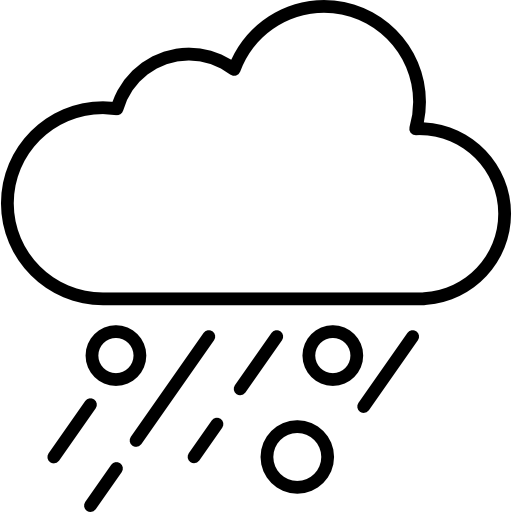
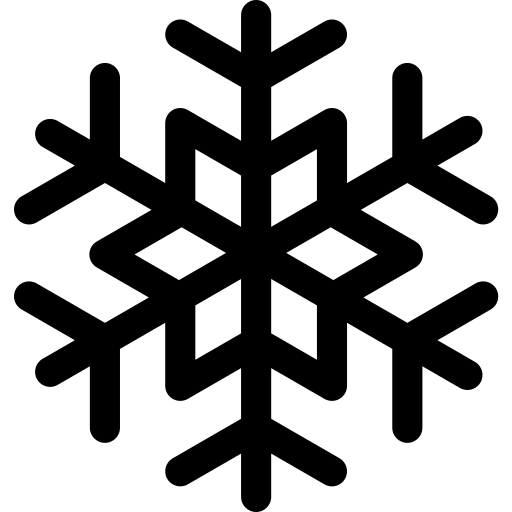
yey, we have second screen.

diff --git a/lib/src/server/weather_model.dart b/lib/src/server/weather_model.dart
@@ -1,7 +1,5 @@
 import 'package:flutter/material.dart';
-import 'package:weather/weather.dart';
 import 'package:weatherapp/src/tools/convert_temperature.dart';
-import 'package:flutter_weather_icons/flutter_weather_icons.dart';
 
 class WeatherModel {
   Map<String, dynamic>? _weather;
@@ -12,11 +10,9 @@ class WeatherModel {
 
   //getters
 
-  //=======
-
-  String get mainStatuts => _weather?['main'] ?? 'unknown';
+  String get mainStatus => _weather?['main'] ?? 'unknown';
   String get description => _weather?['description'] ?? 'unknown';
-  IconData get icon => getIconFromCode(_weather?['icon'] ?? '');
+  Image get icon => _getIconFromCode(_weather?['icon']  ?? '');
   int get temperature => KelvinToCelsium(_main?['temp']).round();
   int get feelsLikeTemperature => KelvinToCelsium(_main?['feels_like']).round();
   int get pressure => _main?['pressure'] ?? 0;
@@ -27,6 +23,7 @@ class WeatherModel {
 
   String get countryName => _countryName ?? 'unknown location';
   String get cityName => _cityName ?? '';
+
   //constructors
 
   WeatherModel() {
@@ -62,35 +59,50 @@ class WeatherModel {
       throw exception;
     }
   }
-  IconData getIconFromCode(String code){
-    IconData tempIcon;
 
-    if(code == '01d'){
-      tempIcon = WeatherIcons.wiDaySunny;
+  Image _getIconFromCode(String code){
+    String imagePath;
+
+    switch (code) {
+      case '01d':
+        imagePath = 'assets/weather_status/sunny.png';
+        break;
+      case '01n':
+        imagePath = 'assets/weather_status/moon.png';
+        break;
+      case '11d':
+        imagePath = 'assets/weather_status/thunderstorm.png';
+        break;
+      case '09d':
+      case '10d':
+        imagePath = 'assets/weather_status/rainy_day.png';
+        break;
+      case '13d':
+        imagePath = 'assets/weather_status/snow.png';
+        break;
+      case '50d':
+        imagePath = 'assets/weather_status/haze.png';
+        break;
+      case '02d':
+        imagePath = 'assets/weather_status/clear_sky.png';
+        break;
+      case '02n':
+        imagePath = 'assets/weather_status/cloudy_night.png';
+        break;
+      case '03d':
+      case '03n':
+      case '04d':
+      case '04n':
+        imagePath = 'assets/weather_status/cloud.png';
+        break;
+      default:
+        imagePath = 'assets/weather_status/sunny.png';
+        break;
     }
-    else {
-      tempIcon = WeatherIcons.wiDaySunny;
-    }
-    return tempIcon;
+
+    return Image.asset(
+      imagePath,
+      width: 75,
+    );
   }
-
-// WeatherModel.manually({temperature = 0, clouds = 0, windSpeed = 0,
-//   weatherDescription = '', icon = '', countryName = '', cityName = ''}){
-//   _temperature = temperature;
-//   _clouds = clouds;
-//   _windSpeed = windSpeed;
-//   _weatherDescription = weatherDescription;
-//   _icon = icon;
-//   _countryName = countryName;
-//   _cityName = cityName;
-// }
 }
-
-//TODO:
-/*
-Не удобно работать с классом, изза чего в виджетах получаются длиннае строки с выборкой данных
--нужно сделать пару основных приватных полей и геттерами из них изымать нужные данные
-
-
-
-*/

diff --git a/lib/src/main_screen/first_main_screen/first_main_screen.dart b/lib/src/main_screen/first_main_screen/first_main_screen.dart
@@ -29,37 +29,41 @@ class _FirstMainScreenState extends State<FirstMainScreen> {
 
   @override
   Widget build(BuildContext context) {
-    return Column(
-      mainAxisAlignment: MainAxisAlignment.center,
-      children: [
-        Container(
-          margin: const EdgeInsets.only(bottom: 40),
-          child: Text(
-            FirstSymbolToUpperCase(currentWeather.description),
-            style: mainSmallFontStyle,
+    return Container(
+      height: MediaQuery.of(context).size.height,
+      width: MediaQuery.of(context).size.width,
+      child: Column(
+        mainAxisAlignment: MainAxisAlignment.center,
+        children: [
+          Container(
+            margin: const EdgeInsets.only(bottom: 40),
+            child: Text(
+              FirstSymbolToUpperCase(currentWeather.description),
+              style: mainSmallFontStyle,
+            ),
           ),
-        ),
-        Container(
-            margin: const EdgeInsets.only(bottom: 80),
-            child: temperatureBlock(
-              temperature: currentWeather.temperature,
-              currentWeatherIcon: currentWeather.icon,
-            )),
-        Container(
-          margin: const EdgeInsets.only(bottom: 20),
-          child: additionalInfoBlock(
-            humidity: currentWeather.humidity,
-            pressure: currentWeather.pressure,
-            wind: currentWeather.windSpeed,
+          Container(
+              margin: const EdgeInsets.only(bottom: 80),
+              child: temperatureBlock(
+                temperature: currentWeather.temperature,
+                currentWeatherIcon: currentWeather.icon, //currentWeather.icon,
+              )),
+          Container(
+            margin: const EdgeInsets.only(bottom: 20),
+            child: additionalInfoBlock(
+              humidity: currentWeather.humidity,
+              pressure: currentWeather.pressure,
+              wind: currentWeather.windSpeed,
+            ),
           ),
-        ),
-        Container(
-          child: Text(
-            '${currentWeather.cityName}, ${currentWeather.countryName}',
-            style: mainSmallFontStyle,
+          Container(
+            child: Text(
+              '${currentWeather.cityName}, ${currentWeather.countryName}',
+              style: mainSmallFontStyle,
+            ),
           ),
-        ),
-      ],
+        ],
+      ),
     );
   }
 }

diff --git a/lib/src/main_screen/main_screen.dart b/lib/src/main_screen/main_screen.dart
@@ -1,5 +1,6 @@
 import 'package:flutter/material.dart';
 import 'package:weatherapp/src/main_screen/first_main_screen/first_main_screen.dart';
+import 'package:weatherapp/src/main_screen/second_main_screen/second_main_screen.dart';
 
 class MainScreen extends StatefulWidget {
   const MainScreen({Key? key}) : super(key: key);
@@ -12,30 +13,55 @@ class _MainScreenState extends State<MainScreen> {
   @override
   Widget build(BuildContext context) {
     return MaterialApp(
-        theme: ThemeData(
-          primarySwatch: Colors.green,
+      theme: ThemeData(
+        primarySwatch: Colors.green,
+      ),
+      title: 'weather_app',
+      home: Scaffold(
+        appBar: AppBar(
+          toolbarHeight: 0,
         ),
-        title: 'weather_app',
-        home: Scaffold(
-          appBar: AppBar(
-            toolbarHeight: 0,
-          ),
-          body: Stack(
-            children: [
-              Container(
-                decoration: const BoxDecoration(
-                    image: DecorationImage(
-                      image: AssetImage('assets/images/clear_sky.jpg'),
-                      fit: BoxFit.cover,
-                    )
+        body: Stack(
+          children: [
+            Container(
+              decoration: const BoxDecoration(
+                image: DecorationImage(
+                  image: AssetImage('assets/images/clear_sky.jpg'),
+                  fit: BoxFit.cover,
                 ),
               ),
-              const FirstMainScreen()
-            ],
-          ),
-        ));
+            ),
+            ListView(
+              children: const[
+                FirstMainScreen(),
+                SecondMainScreen(),
+              ],
+            )
+          ],
+        ),
+      ),
+    );
   }
 }
+
+// Stack(
+// children: [
+// Container(
+// decoration: const BoxDecoration(
+// image: DecorationImage(
+// image: AssetImage('assets/images/clear_sky.jpg'),
+// fit: BoxFit.cover,
+// )
+// ),
+// ),
+// ListView(
+// children: [
+// FirstMainScreen(),
+// SecondMainScreen(),
+// ],
+// )
+// ],
+// ),
 
 // Container(
 // decoration: BoxDecoration(

diff --git a/lib/src/main_screen/first_main_screen/temperature_block.dart b/lib/src/main_screen/first_main_screen/temperature_block.dart
@@ -1,16 +1,12 @@
 import 'package:flutter/material.dart';
 import 'package:weatherapp/src/exporters/styles_exporter.dart';
-import 'package:weather_icons/weather_icons.dart';
 
-Widget temperatureBlock({required int? temperature, required IconData currentWeatherIcon}) {
-
-  
-
+Widget temperatureBlock({required int? temperature, required Image currentWeatherIcon}) {
   return Column(
     mainAxisAlignment: MainAxisAlignment.center,
     children: [
       Container(
-        child: Icon(currentWeatherIcon),
+        child: currentWeatherIcon,
       ),
       Row(
         mainAxisAlignment: MainAxisAlignment.center,

diff --git a/lib/src/main_screen/second_main_screen/second_main_screen.dart b/lib/src/main_screen/second_main_screen/second_main_screen.dart
@@ -1,0 +1,19 @@
+import 'package:flutter/material.dart';
+
+class SecondMainScreen extends StatefulWidget {
+  const SecondMainScreen({Key? key}) : super(key: key);
+
+  @override
+  _SecondMainScreenState createState() => _SecondMainScreenState();
+}
+
+class _SecondMainScreenState extends State<SecondMainScreen> {
+  @override
+  Widget build(BuildContext context) {
+    return Container(
+      height: MediaQuery.of(context).size.height,
+      width: MediaQuery.of(context).size.width,
+      color: Color(0x3fd009eb),
+    );
+  }
+}
